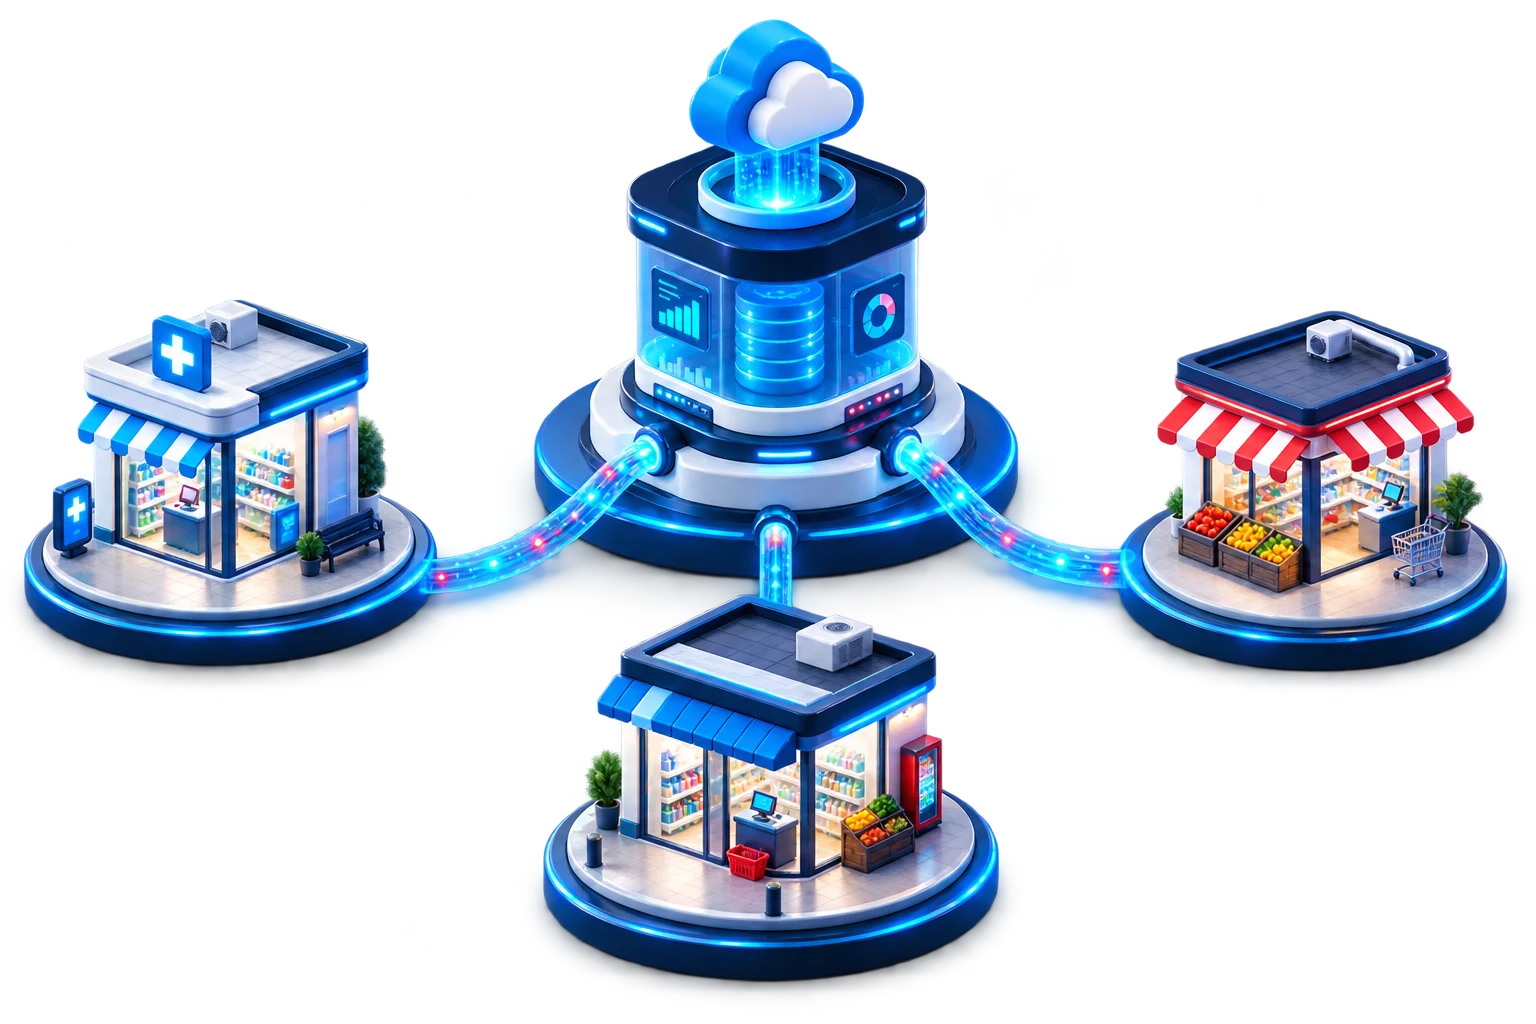
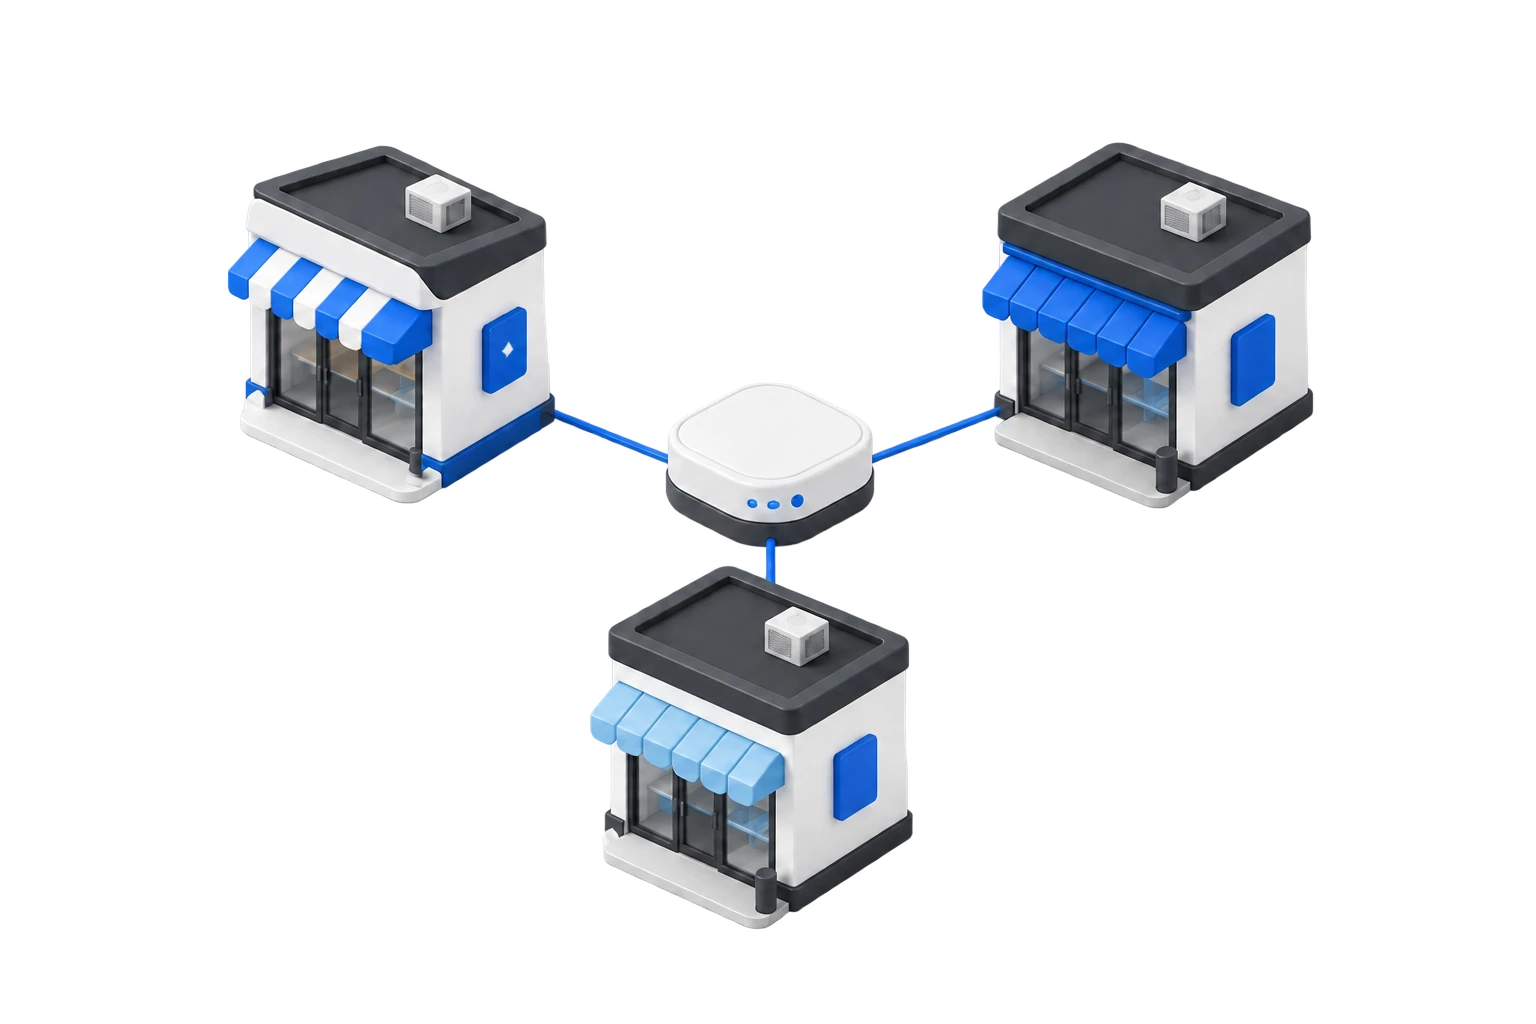
feat: use transparent Yuri 3D visuals

diff --git a/app/page.tsx b/app/page.tsx
@@ -1,7 +1,5 @@
 import Link from "next/link";
-import { CapabilityStrip } from "@/components/capability-strip";
 import { Capability3DSection } from "@/components/capability-3d-section";
-import { CapabilityContextSection } from "@/components/capability-context-section";
 import { AudienceSection } from "@/components/audience-section";
 import { ContactSection } from "@/components/contact-section";
 import { ModuleIndex } from "@/components/module-index";
@@ -14,9 +12,7 @@ export default function HomePage() {
   return (
     <>
       <YuriHero />
-      <CapabilityStrip />
       <Capability3DSection />
-      <CapabilityContextSection />
       <ModuleIndex modules={yuriModules} />
       <div id="publico" className="audience-sections-anchor">
         {audienceStories.map((story) => (
